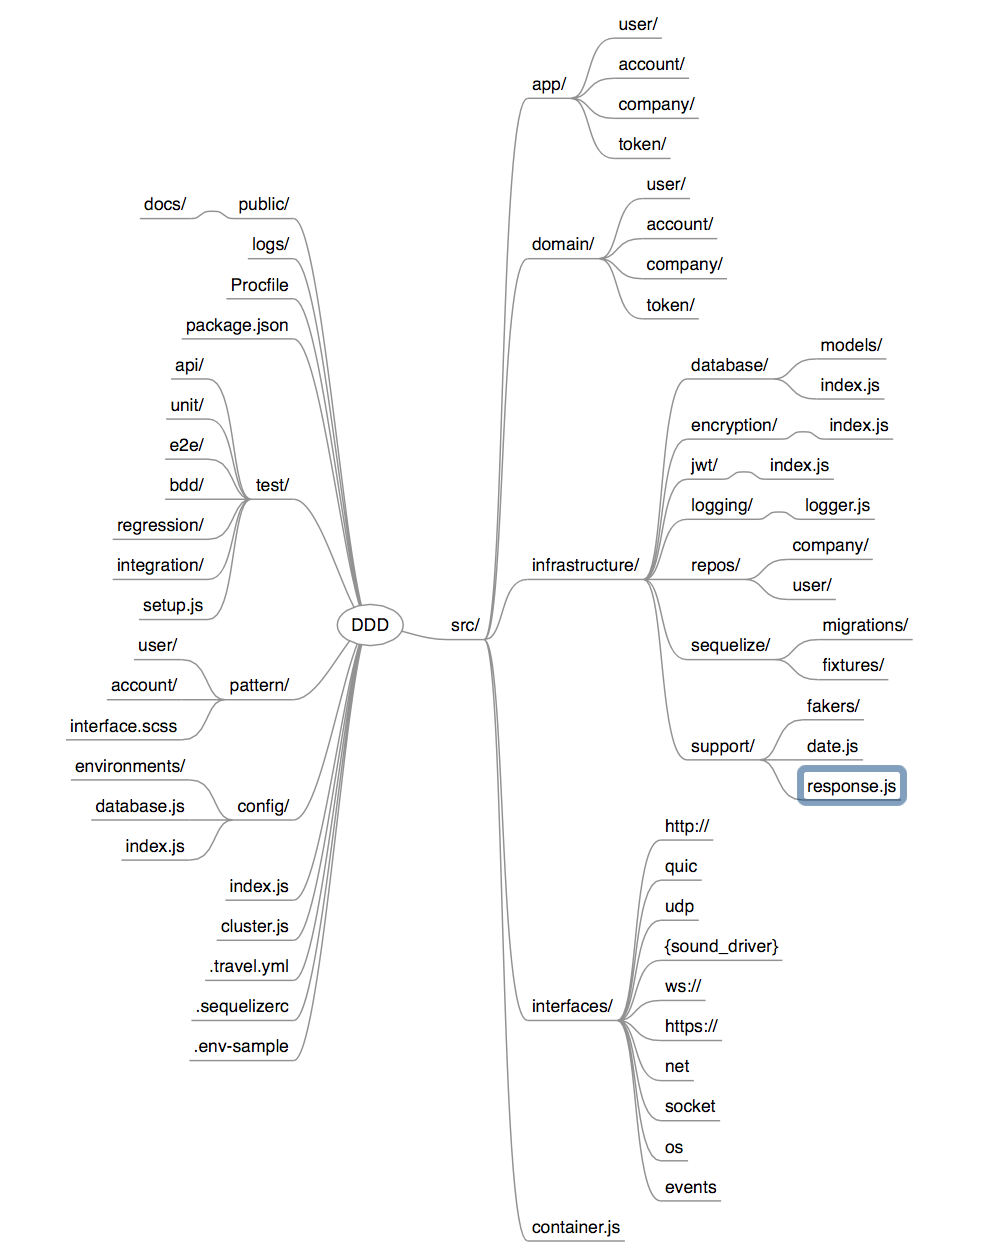
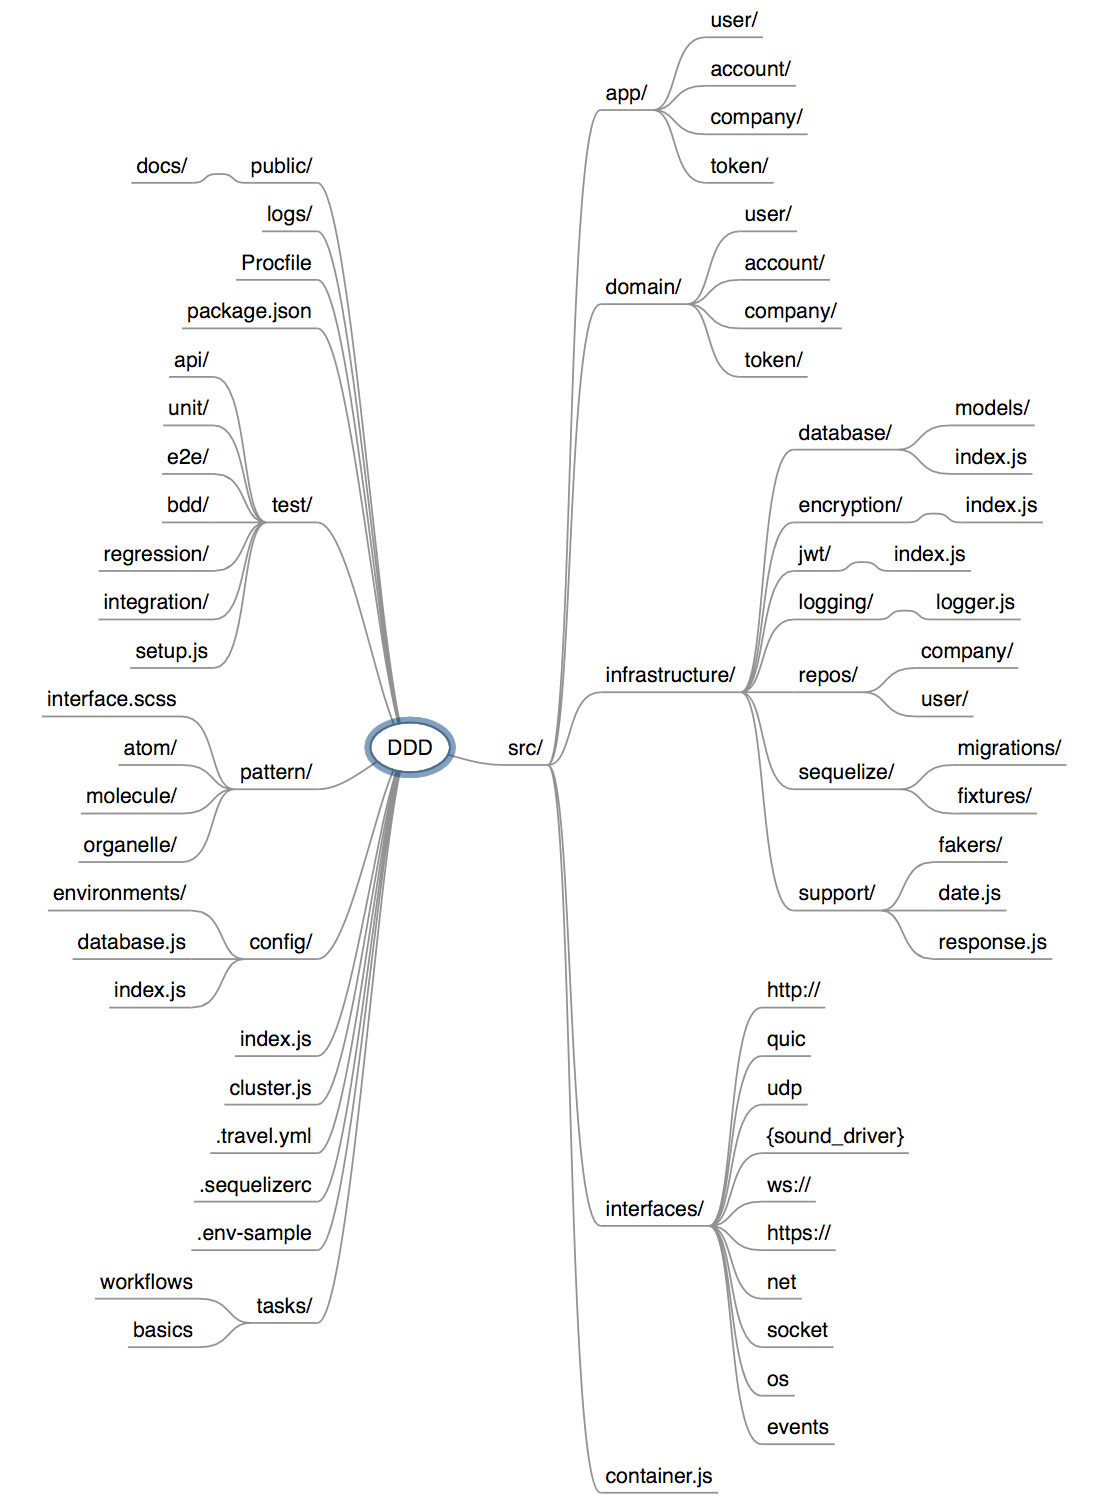
Added object properties note for Events

diff --git a/datastructures/ddd.mm b/datastructures/ddd.mm
@@ -72,9 +72,10 @@
             <node TEXT="setup.js"/>
         </node>
         <node TEXT="pattern/" POSITION="left">
-            <node TEXT="user/"/>
-            <node TEXT="account/"/>
             <node TEXT="interface.scss"/>
+            <node TEXT="atom/"/>
+            <node TEXT="molecule/"/>
+            <node TEXT="organelle/"/>
         </node>
         <node ID="ID_7A096096-50D0-4B0B-8B86-D13AECEF83DA" TEXT="config/" POSITION="left">
             <node TEXT="environments/"/>
@@ -86,5 +87,9 @@
         <node TEXT=".travel.yml" POSITION="left"/>
         <node TEXT=".sequelizerc" POSITION="left"/>
         <node TEXT=".env-sample" POSITION="left"/>
+        <node TEXT="tasks/" POSITION="left">
+            <node TEXT="workflows"/>
+            <node TEXT="basics"/>
+        </node>
     </node>
 </map>
